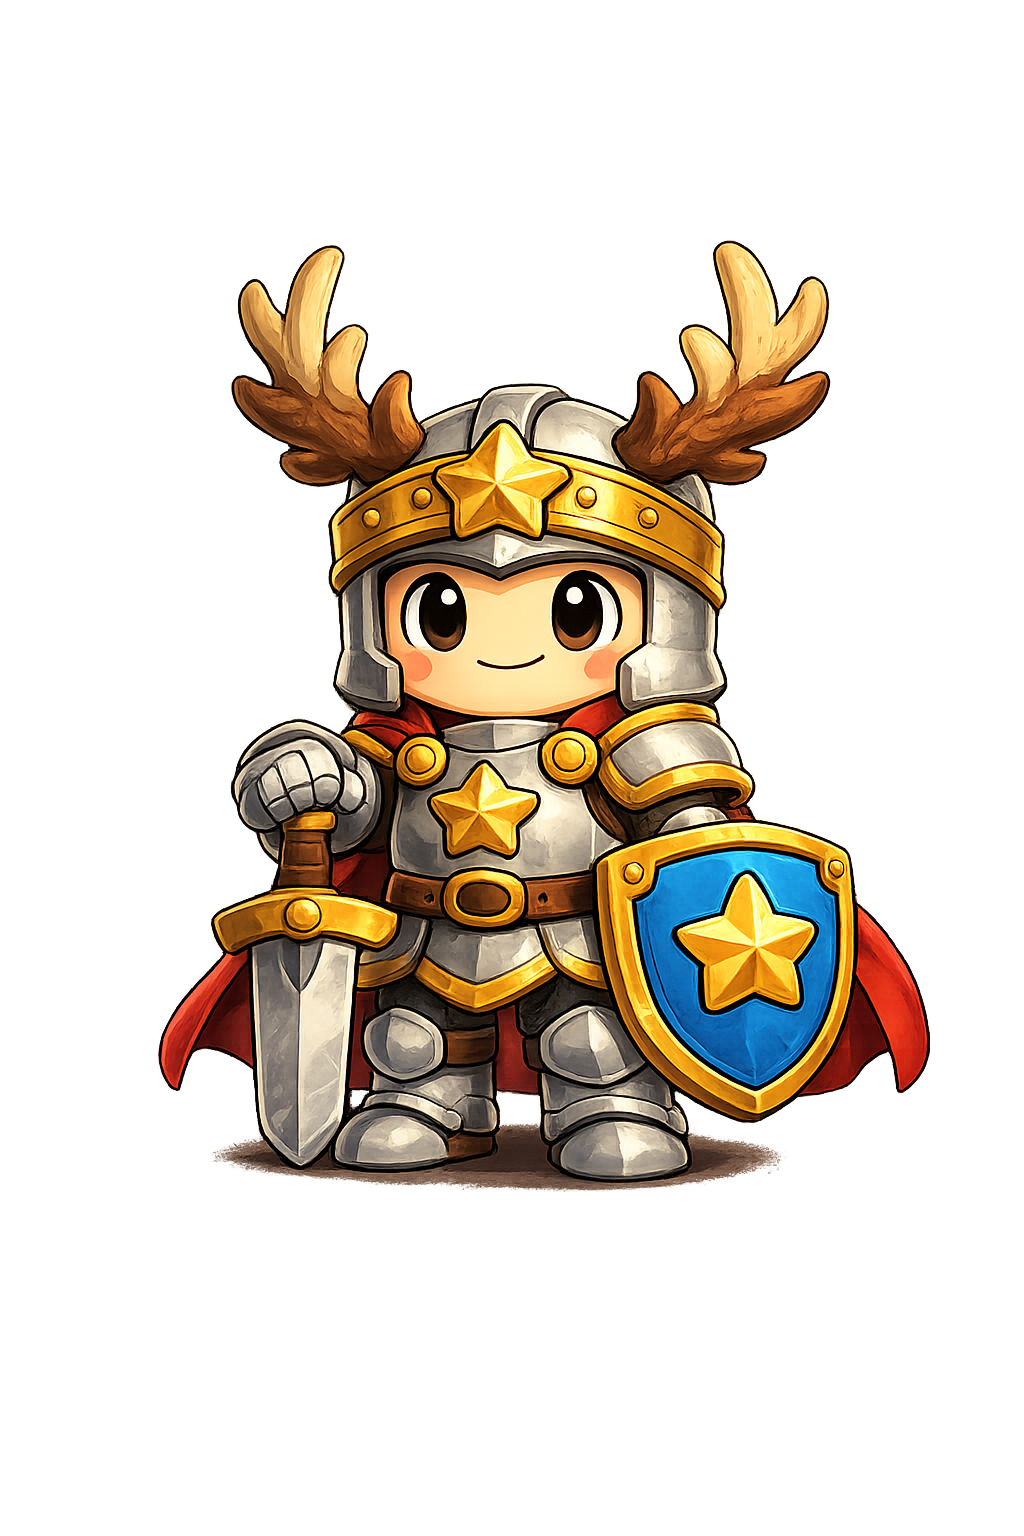
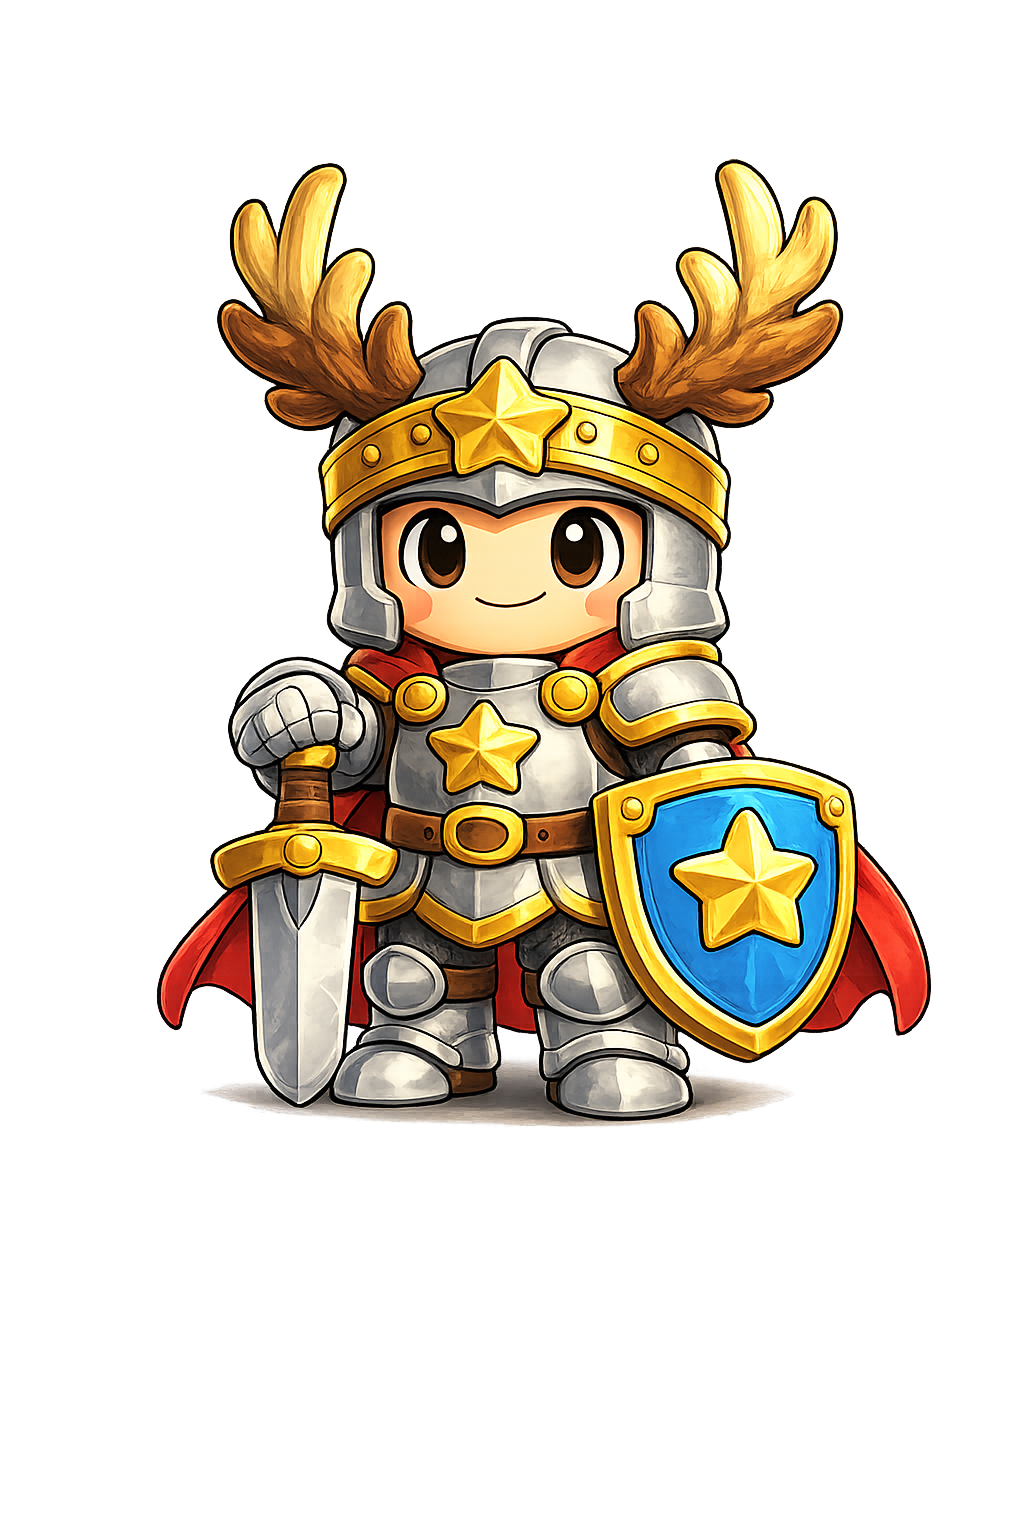
v7-room-backgrounds-doors-steve

diff --git a/index.html b/index.html
@@ -2325,11 +2325,12 @@ function isAssetReady(filename) {
 }
 // Kick off preloads as soon as the script runs.
 preloadAssets([
-  'avatar.png',
-  'bg-hatchery.png',
-  'ducky-idle.png', 'ducky-cheer.png',
-  'egg-stage-1.png', 'egg-stage-2.png', 'egg-stage-3.png',
-  'hatch-burst.png', 'light-ring.png',
+  'avatar.png','avatar-sword-steve.png',
+  'bg-hatchery.png','bg-trophy.png','bg-colosseum.png','bg-garage.png',
+  'door-trophy.png','door-colosseum.png','door-garage.png',
+  'ducky-idle.png','ducky-cheer.png','ducky-market.png',
+  'egg-stage-1.png','egg-stage-2.png','egg-stage-3.png',
+  'hatch-burst.png','light-ring.png',
   'aura-common.png','aura-uncommon.png','aura-rare.png','aura-epic.png','aura-legendary.png','aura-mythic.png',
   'icon-add.png','icon-edit.png','icon-delete.png','icon-settings.png','icon-close.png','icon-undo.png',
   'tab-goals.png','tab-eggs.png','tab-inventory.png'
@@ -4093,9 +4094,9 @@ const wh = {
   stall: { x: 480, y: 110, w: 90, h: 64 },
   nearStall: false,
   // Doors
-  trophyDoor: { x: 8, y: 30, w: 50, h: 50 },     // left side of Hatchery → Trophy Room
-  garageDoor: { x: 542, y: 30, w: 50, h: 50 },   // right side of Hatchery → Garage
-  colosseumDoor: { x: 275, y: 30, w: 50, h: 50 }, // center of Hatchery → Colosseum
+  trophyDoor:    { x:  80, y: 340, w: 50, h: 50 }, // bottom-left  of Hatchery → Trophy Room
+  colosseumDoor: { x: 275, y: 340, w: 50, h: 50 }, // bottom-center of Hatchery → Colosseum
+  garageDoor:    { x: 470, y: 340, w: 50, h: 50 }, // bottom-right of Hatchery → Garage
   hatcheryDoor: { x: 542, y: 30, w: 50, h: 50 }, // return door — position changes per scene
   nearTrophyDoor: false,
   nearGarageDoor: false,
@@ -4160,7 +4161,8 @@ function initWarehouse() {
     // Don't run in simple mode either
     if (state.settings && state.settings.simpleMode) return;
     if (!document.getElementById('tab-warehouse').classList.contains('active')) return;
-    const k = e.key.toLowerCase();
+    const k = (e.key || '').toLowerCase();
+    if (!k) return;
     wh.keys[k] = true;
     if (['arrowup','arrowdown','arrowleft','arrowright',' '].includes(k) ||
         ['w','a','s','d'].includes(k)) {
@@ -4185,7 +4187,8 @@ function initWarehouse() {
     }
   });
   window.addEventListener('keyup', (e) => {
-    const k = e.key.toLowerCase();
+    const k = (e.key || '').toLowerCase();
+    if (!k) return;
     wh.keys[k] = false;
     if (k === 'e') wh.ePressed = false;
   });
@@ -4246,20 +4249,8 @@ function initWarehouse() {
 }
 
 function buildDecorations() {
-  // Place each non-equipped, non-pet item as a decoration somewhere
+  // Hatchery floor is intentionally clean — inventory items live on the Inventory tab.
   wh.decorations = [];
-  const W = 600, H = 400;
-  let i = 0;
-  state.inventory.forEach(item => {
-    if (item.t === 'pet') return; // pets are handled by equip
-    if (item.t === 'background') return; // background is full-room
-    // Use deterministic pseudo-random based on item id
-    const seed = (typeof item.id === 'string' ? item.id.length : item.id) + i * 17;
-    const x = 60 + ((seed * 73) % (W - 120));
-    const y = 120 + ((seed * 41) % (H - 200));
-    wh.decorations.push({ x, y, item });
-    i++;
-  });
 }
 
 function startWarehouseLoop() {
@@ -4417,7 +4408,7 @@ function drawWarehouse() {
       // Static avatar image (fallback to chibi if image not yet loaded)
       if (isAssetReady('avatar.png')) {
         const aImg = getAsset('avatar.png');
-        const ah = 90;
+        const ah = 108; // bumped 20% for less grain at canvas scale
         const aw = ah * (aImg.naturalWidth / aImg.naturalHeight);
         ctx.drawImage(aImg, state.warehouseAvatarPos.x - aw/2, state.warehouseAvatarPos.y + 32 - ah, aw, ah);
       } else {
@@ -4608,14 +4599,27 @@ function updateWarehouseStatus() {
 }
 
 function drawMarketplaceStall(ctx, s) {
-  // Awning (gold-striped)
+  if (isAssetReady('ducky-market.png')) {
+    // Render Ducky a bit larger than the click hitbox so the character has visual presence.
+    const img = getAsset('ducky-market.png');
+    const renderH = 140;
+    const renderW = renderH * (img.naturalWidth / img.naturalHeight);
+    const renderX = s.x + s.w/2 - renderW/2;
+    const renderY = s.y + s.h - renderH + 10; // anchor bottom near the stall's base
+    if (wh.nearStall) {
+      ctx.fillStyle = 'rgba(255,215,0,0.22)';
+      ctx.fillRect(renderX - 6, renderY - 6, renderW + 12, renderH + 12);
+    }
+    ctx.drawImage(img, renderX, renderY, renderW, renderH);
+    return;
+  }
+  // Procedural fallback
   ctx.fillStyle = '#ffd700';
   ctx.fillRect(s.x - 4, s.y - 12, s.w + 8, 12);
   ctx.fillStyle = '#c79100';
   for (let i = 0; i < s.w + 8; i += 10) {
     ctx.fillRect(s.x - 4 + i, s.y - 12, 5, 12);
   }
-  // Awning frill
   ctx.fillStyle = '#ffd700';
   for (let i = 0; i < s.w + 8; i += 8) {
     ctx.beginPath();
@@ -4624,19 +4628,14 @@ function drawMarketplaceStall(ctx, s) {
     ctx.lineTo(s.x - 4 + i + 8, s.y);
     ctx.fill();
   }
-
-  // Counter base (wood)
   ctx.fillStyle = '#5d3a1a';
   ctx.fillRect(s.x, s.y + 24, s.w, s.h - 24);
   ctx.fillStyle = '#8b5a3c';
-  ctx.fillRect(s.x, s.y + 24, s.w, 4); // counter top
-  // Wood grain
+  ctx.fillRect(s.x, s.y + 24, s.w, 4);
   ctx.fillStyle = '#3a2410';
   for (let i = 0; i < s.w; i += 8) {
     ctx.fillRect(s.x + i, s.y + 30, 1, s.h - 30);
   }
-
-  // Sign
   ctx.fillStyle = '#2c1810';
   ctx.fillRect(s.x + 4, s.y + 4, s.w - 8, 18);
   ctx.fillStyle = '#ffd700';
@@ -4644,18 +4643,12 @@ function drawMarketplaceStall(ctx, s) {
   ctx.textAlign = 'center';
   ctx.textBaseline = 'middle';
   ctx.fillText('EGG MARKET', s.x + s.w / 2, s.y + 13);
-
-  // Eggs displayed on the counter
   ctx.font = '14px serif';
-  ctx.textAlign = 'center';
-  ctx.textBaseline = 'middle';
   ctx.fillText('🥚', s.x + 18, s.y + 36);
   ctx.font = '18px serif';
   ctx.fillText('🥚', s.x + s.w/2, s.y + 38);
   ctx.font = '22px serif';
   ctx.fillText('🥚', s.x + s.w - 18, s.y + 40);
-
-  // Glow if near (drawn before avatar pass)
   if (wh.nearStall) {
     ctx.fillStyle = 'rgba(255,215,0,0.18)';
     ctx.fillRect(s.x - 8, s.y - 14, s.w + 16, s.h + 14);
@@ -4678,22 +4671,26 @@ function drawDoorPrompt(ctx, cx, cy) {
 }
 
 function drawTrophyDoor(ctx, d) {
-  // Door frame (stone-arched entry)
+  if (isAssetReady('door-trophy.png')) {
+    if (wh.nearTrophyDoor) {
+      ctx.fillStyle = 'rgba(255,215,0,0.25)';
+      ctx.fillRect(d.x - 10, d.y - 12, d.w + 20, d.h + 18);
+    }
+    ctx.drawImage(getAsset('door-trophy.png'), d.x - 8, d.y - 10, d.w + 16, d.h + 16);
+    return;
+  }
+  // Procedural fallback
   ctx.fillStyle = '#3a2410';
   ctx.fillRect(d.x - 4, d.y - 6, d.w + 8, d.h + 6);
-  // Door
   ctx.fillStyle = '#5d3a1a';
   ctx.fillRect(d.x, d.y, d.w, d.h);
-  // Door panels
   ctx.fillStyle = '#3a2410';
   ctx.fillRect(d.x + 4, d.y + 4, d.w - 8, (d.h - 12) / 2);
   ctx.fillRect(d.x + 4, d.y + d.h/2 + 4, d.w - 8, (d.h - 12) / 2);
-  // Knob
   ctx.fillStyle = '#ffd700';
   ctx.beginPath();
   ctx.arc(d.x + d.w - 8, d.y + d.h/2, 2, 0, Math.PI*2);
   ctx.fill();
-  // Sign above the door
   ctx.fillStyle = '#2c1810';
   ctx.fillRect(d.x - 8, d.y - 18, d.w + 16, 14);
   ctx.fillStyle = '#ffd700';
@@ -4701,7 +4698,6 @@ function drawTrophyDoor(ctx, d) {
   ctx.textAlign = 'center';
   ctx.textBaseline = 'middle';
   ctx.fillText('🏆 TROPHIES', d.x + d.w/2, d.y - 11);
-  // Glow if near
   if (wh.nearTrophyDoor) {
     ctx.fillStyle = 'rgba(255,215,0,0.18)';
     ctx.fillRect(d.x - 8, d.y - 22, d.w + 16, d.h + 26);
@@ -4732,6 +4728,25 @@ function drawHatcheryDoor(ctx, d) {
     ctx.fillStyle = 'rgba(255,215,0,0.18)';
     ctx.fillRect(d.x - 8, d.y - 22, d.w + 16, d.h + 26);
   }
+}
+
+// Helper: paint an asset as a cover-fit full background on the warehouse canvas.
+// Used by each scene's draw function to overlay the procedural background with art.
+function paintSceneBg(ctx, fileName, W, H) {
+  if (!isAssetReady(fileName)) return false;
+  const img = getAsset(fileName);
+  const ir = img.naturalWidth / img.naturalHeight;
+  const cr = W / H;
+  let sw, sh, sx, sy;
+  if (ir > cr) {
+    sh = img.naturalHeight; sw = sh * cr;
+    sx = (img.naturalWidth - sw) / 2; sy = 0;
+  } else {
+    sw = img.naturalWidth; sh = sw / cr;
+    sx = 0; sy = (img.naturalHeight - sh) / 2;
+  }
+  ctx.drawImage(img, sx, sy, sw, sh, 0, 0, W, H);
+  return true;
 }
 
 function drawTrophyRoom(ctx, W, H) {
@@ -4777,7 +4792,10 @@ function drawTrophyRoom(ctx, W, H) {
   ctx.fillStyle = 'rgba(0,0,0,0.5)';
   ctx.fillRect(0, 78, W, 4);
 
-  // Title sign
+  // Overlay illustrated background if asset is loaded — covers the procedural paint above.
+  paintSceneBg(ctx, 'bg-trophy.png', W, H);
+
+  // Title sign (drawn on top of bg so it stays readable)
   ctx.fillStyle = 'rgba(0,0,0,0.6)';
   ctx.fillRect(W/2 - 80, 8, 160, 22);
   ctx.fillStyle = '#ffd700';
@@ -4956,25 +4974,28 @@ function enterHatchery() {
 }
 
 function drawGarageDoor(ctx, d) {
-  // Industrial garage door (rolled up door) with metal panels
+  if (isAssetReady('door-garage.png')) {
+    if (wh.nearGarageDoor) {
+      ctx.fillStyle = 'rgba(255,215,0,0.25)';
+      ctx.fillRect(d.x - 10, d.y - 12, d.w + 20, d.h + 18);
+    }
+    ctx.drawImage(getAsset('door-garage.png'), d.x - 8, d.y - 10, d.w + 16, d.h + 16);
+    return;
+  }
+  // Procedural fallback
   ctx.fillStyle = '#222';
   ctx.fillRect(d.x - 4, d.y - 6, d.w + 8, d.h + 6);
-  // Door body
   ctx.fillStyle = '#888';
   ctx.fillRect(d.x, d.y, d.w, d.h);
-  // Horizontal panel lines (rolled garage door)
   ctx.fillStyle = '#555';
   for (let i = 0; i < d.h; i += 8) {
     ctx.fillRect(d.x, d.y + i, d.w, 1);
   }
-  // Side rails
   ctx.fillStyle = '#444';
   ctx.fillRect(d.x, d.y, 2, d.h);
   ctx.fillRect(d.x + d.w - 2, d.y, 2, d.h);
-  // Handle
   ctx.fillStyle = '#ffd700';
   ctx.fillRect(d.x + d.w/2 - 5, d.y + d.h - 8, 10, 2);
-  // Sign
   ctx.fillStyle = '#2c1810';
   ctx.fillRect(d.x - 8, d.y - 18, d.w + 16, 14);
   ctx.fillStyle = '#ffd700';
@@ -5030,6 +5051,20 @@ function drawGarage(ctx, W, H) {
   ctx.font = 'bold 14px Courier New';
   ctx.textBaseline = 'middle';
   ctx.fillText('🔧 THE GARAGE 🔧', W/2, 19);
+
+  // Overlay illustrated background if asset is loaded
+  paintSceneBg(ctx, 'bg-garage.png', W, H);
+
+  // Re-paint title on top of bg so it stays readable
+  if (isAssetReady('bg-garage.png')) {
+    ctx.fillStyle = 'rgba(0,0,0,0.6)';
+    ctx.fillRect(W/2 - 80, 8, 160, 22);
+    ctx.fillStyle = '#ffd700';
+    ctx.font = 'bold 14px Courier New';
+    ctx.textAlign = 'center';
+    ctx.textBaseline = 'middle';
+    ctx.fillText('🔧 THE GARAGE 🔧', W/2, 19);
+  }
 
   // Hatchery return door (left side)
   drawHatcheryDoor(ctx, wh.hatcheryDoor);
@@ -5172,13 +5207,19 @@ function drawLift(ctx, x, y, item) {
 }
 
 function drawColosseumDoor(ctx, d) {
-  // Stone arched door (gladiator entrance)
+  if (isAssetReady('door-colosseum.png')) {
+    if (wh.nearColosseumDoor) {
+      ctx.fillStyle = 'rgba(255,215,0,0.25)';
+      ctx.fillRect(d.x - 12, d.y - 14, d.w + 24, d.h + 20);
+    }
+    ctx.drawImage(getAsset('door-colosseum.png'), d.x - 10, d.y - 12, d.w + 20, d.h + 18);
+    return;
+  }
+  // Procedural fallback
   ctx.fillStyle = '#1a1a1a';
   ctx.fillRect(d.x - 4, d.y - 8, d.w + 8, d.h + 8);
-  // Stone arch
   ctx.fillStyle = '#7a7a82';
   ctx.fillRect(d.x, d.y, d.w, d.h);
-  // Stone block pattern
   ctx.fillStyle = '#5a5a62';
   for (let i = 0; i < d.h; i += 10) {
     for (let j = 0; j < d.w; j += 12) {
@@ -5186,12 +5227,10 @@ function drawColosseumDoor(ctx, d) {
       ctx.fillRect(d.x + j, d.y + i, 12, 1);
     }
   }
-  // Crossed swords above
   ctx.font = '14px serif';
   ctx.textAlign = 'center';
   ctx.textBaseline = 'middle';
   ctx.fillText('⚔', d.x + d.w/2, d.y + d.h/2);
-  // Sign
   ctx.fillStyle = '#2c1810';
   ctx.fillRect(d.x - 12, d.y - 18, d.w + 24, 14);
   ctx.fillStyle = '#ffd700';
@@ -5251,6 +5290,20 @@ function drawColosseum(ctx, W, H) {
   ctx.textBaseline = 'middle';
   ctx.fillText('⚔ THE COLOSSEUM ⚔', W/2, 19);
 
+  // Overlay illustrated background if asset is loaded
+  paintSceneBg(ctx, 'bg-colosseum.png', W, H);
+
+  // Re-paint title on top of bg so it stays readable
+  if (isAssetReady('bg-colosseum.png')) {
+    ctx.fillStyle = 'rgba(0,0,0,0.6)';
+    ctx.fillRect(W/2 - 90, 8, 180, 22);
+    ctx.fillStyle = '#ffd700';
+    ctx.font = 'bold 14px Courier New';
+    ctx.textAlign = 'center';
+    ctx.textBaseline = 'middle';
+    ctx.fillText('⚔ THE COLOSSEUM ⚔', W/2, 19);
+  }
+
   // Hatchery return door (right)
   drawHatcheryDoor(ctx, wh.hatcheryDoor);
 
@@ -5268,7 +5321,14 @@ function drawColosseum(ctx, W, H) {
       ctx.beginPath();
       ctx.ellipse(stevePos.x, stevePos.y + 30, 18, 5, 0, 0, Math.PI*2);
       ctx.fill();
-      drawChibi(ctx, stevePos.x, stevePos.y + 32, 2, SWORD_STEVE.avatar, {});
+      if (isAssetReady('avatar-sword-steve.png')) {
+        const sImg = getAsset('avatar-sword-steve.png');
+        const sh = 108;
+        const sw = sh * (sImg.naturalWidth / sImg.naturalHeight);
+        ctx.drawImage(sImg, stevePos.x - sw/2, stevePos.y + 32 - sh, sw, sh);
+      } else {
+        drawChibi(ctx, stevePos.x, stevePos.y + 32, 2, SWORD_STEVE.avatar, {});
+      }
       // Steve's name above his head
       ctx.fillStyle = 'rgba(0,0,0,0.7)';
       ctx.fillRect(stevePos.x - 38, stevePos.y - 90, 76, 14);
@@ -6409,7 +6469,7 @@ if (sb) {
 if (!state.settings.seenOnboarding) {
   setTimeout(showOnboarding, 400);
 }
-// build-marker: v6.3-full-reset
+// build-marker: v7-room-backgrounds-doors-steve
 </script>
 </body>
 </html>
